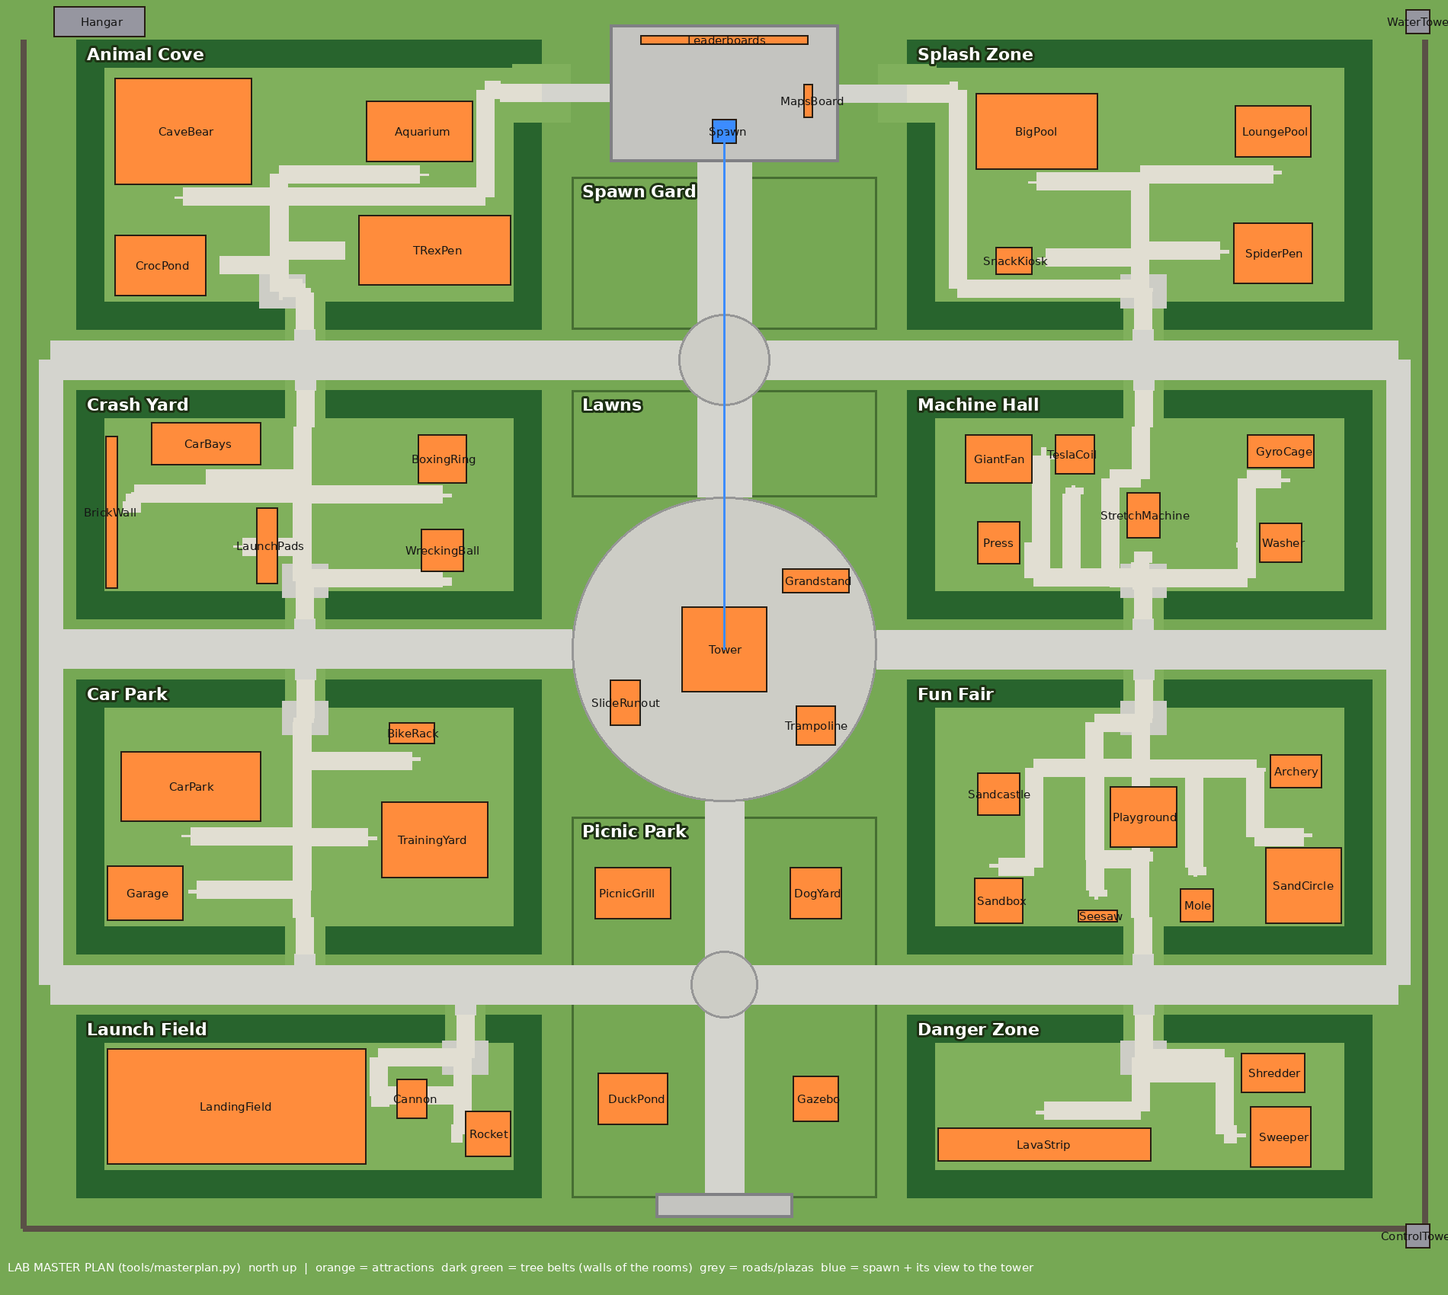
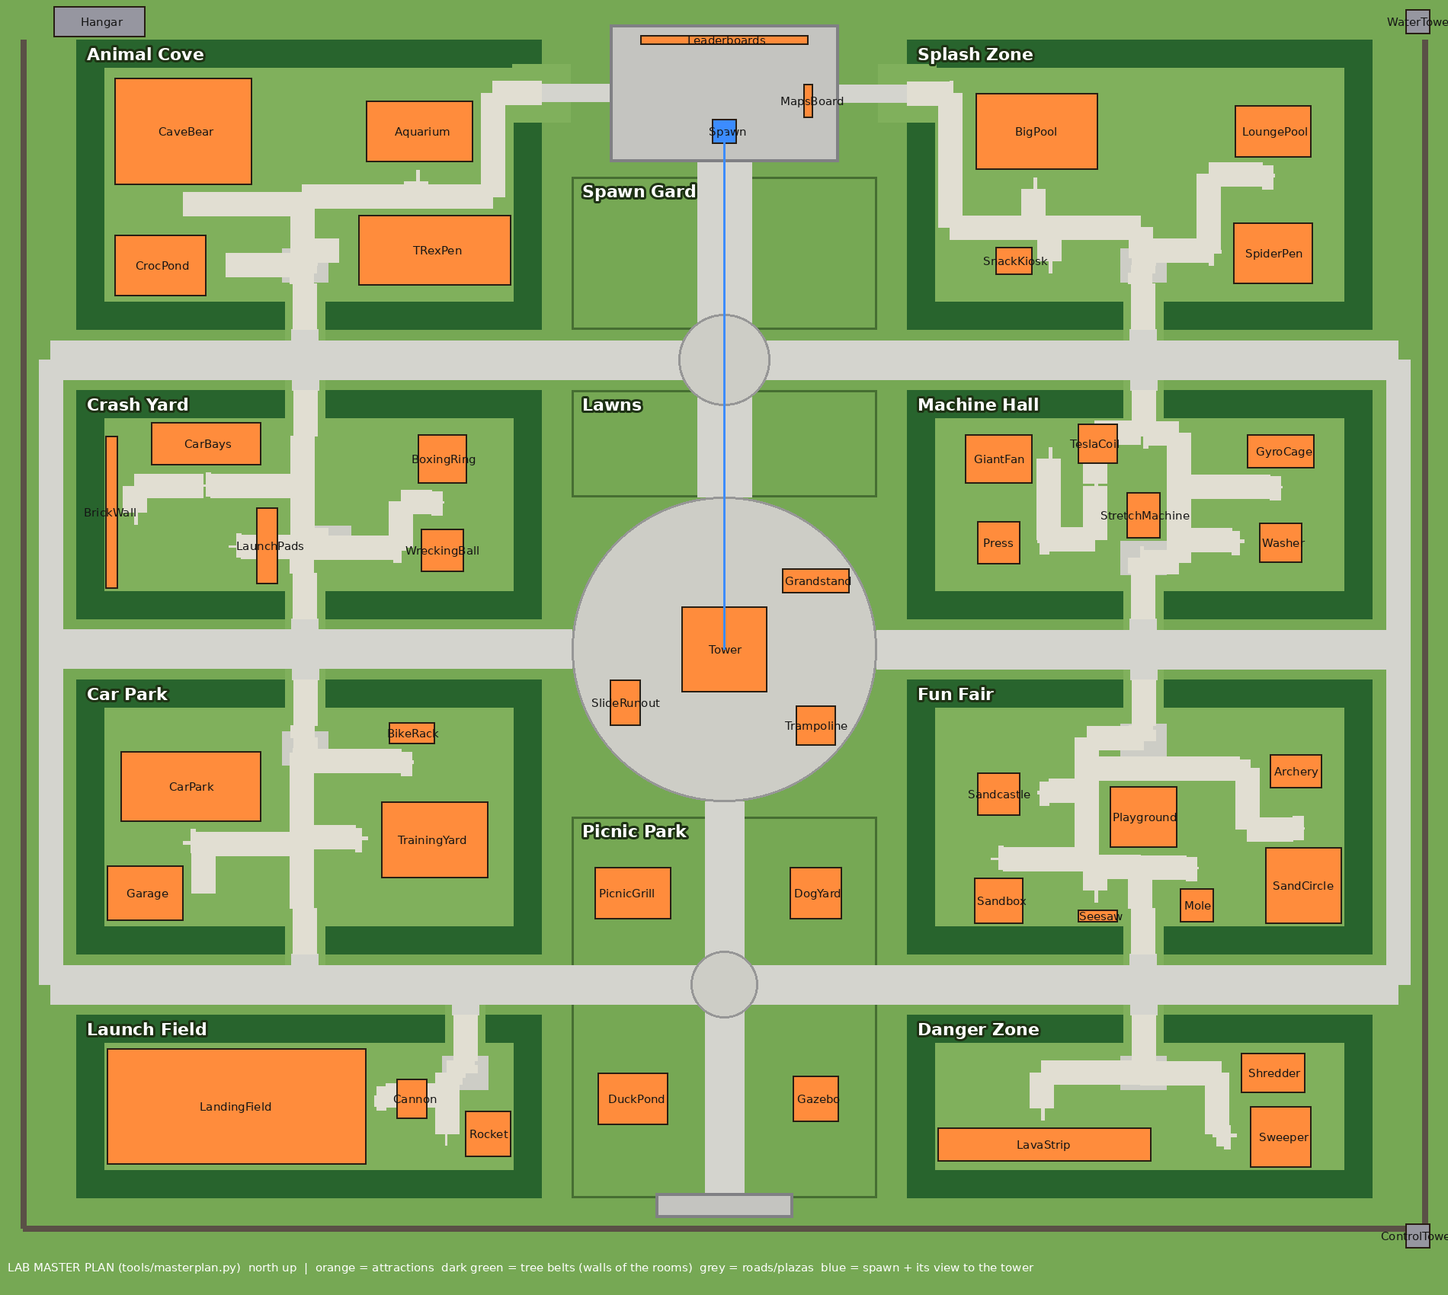
Paths 9/10: planner makes one path tree per room (shared trunks, T-junctions), wider paths, route margin; build rules (one part per leg, one pad per node, landings on built fronts and gates, no overlaps, world-aligned texture, kerbs, lint) (OVERVIEW 0.997)
Claude-Session: https://claude.ai/code/session_01QMSuPfsKra1qjqHBWxnEoR

diff --git a/tools/masterplan.py b/tools/masterplan.py
@@ -18,14 +18,14 @@ BOUNDS = (-505, -386, 445, 434)
 # ---------- ROOMS: walled by tree belts, entered only through their openings ----------
 # (id, name, x0, z0, x1, z1, entrances [(x, z)] on the room edge, courtyard (x, z))
 ROOMS = [
-    ("AnimalCove",  "Animal Cove",   -455, -360, -150, -170, [(-305, -170), (-150, -325)], (-320, -195)),
-    ("SplashZone",  "Splash Zone",     90, -360,  395, -170, [(245, -170), (90, -325)],    (245, -195)),
-    ("CrashYard",   "Crash Yard",    -455, -130, -150,   20, [(-305, -130), (-305, 20)],  (-305, -5)),
-    ("CarPark",     "Car Park",      -455,   60, -150,  240, [(-305, 60), (-305, 240)],   (-305, 85)),
-    ("MachineHall", "Machine Hall",    90, -130,  395,   20, [(245, -130), (245, 20)],    (245, -5)),
-    ("FunFair",     "Fun Fair",        90,   60,  395,  240, [(245, 60), (245, 240)],     (245, 85)),
-    ("LaunchField", "Launch Field",  -455,  280, -150,  400, [(-200, 280)],               (-200, 308)),
-    ("DangerZone",  "Danger Zone",     90,  280,  395,  400, [(245, 280)],                (245, 308)),
+    ("AnimalCove",  "Animal Cove",   -455, -360, -150, -170, [(-305, -170), (-150, -325)], (-305, -212)),
+    ("SplashZone",  "Splash Zone",     90, -360,  395, -170, [(245, -170), (90, -325)],    (245, -212)),
+    ("CrashYard",   "Crash Yard",    -455, -130, -150,   20, [(-305, -130), (-305, 20)],  (-290, -30)),
+    ("CarPark",     "Car Park",      -455,   60, -150,  240, [(-305, 60), (-305, 240)],   (-305, 105)),
+    ("MachineHall", "Machine Hall",    90, -130,  395,   20, [(245, -130), (245, 20)],    (245, -20)),
+    ("FunFair",     "Fun Fair",        90,   60,  395,  240, [(245, 60), (245, 240)],     (245, 100)),
+    ("LaunchField", "Launch Field",  -455,  280, -150,  400, [(-200, 280)],               (-200, 318)),
+    ("DangerZone",  "Danger Zone",     90,  280,  395,  400, [(245, 280)],                (245, 318)),
     ("PicnicPark",  "Picnic Park",   -130,  150,   70,  400, [],                          None),
     ("GardensN",    "Spawn Gardens", -130, -270,   70, -170, [],                          None),
     ("LawnsMid",    "Lawns",         -130, -130,   70,  -60, [],                          None),
@@ -55,18 +55,18 @@ ROADS = [
     ("PlazaWest",   12, [(-105, -325), (-150, -325)]),         # plaza side exits into Animal Cove / Splash Zone
     ("PlazaEast",   12, [(45, -325), (90, -325)]),
     # spurs into every room entrance (from the nearest road to the room edge)
-    ("SpurCoveS",    14, [(-305, -150), (-305, -170)]),
-    ("SpurSplashS",  14, [(245, -150), (245, -170)]),
-    ("SpurCrashN",   14, [(-305, -150), (-305, -130)]),
-    ("SpurCrashS",   14, [(-305, 40), (-305, 20)]),
-    ("SpurParkN",    14, [(-305, 40), (-305, 60)]),
-    ("SpurParkS",    14, [(-305, 260), (-305, 240)]),
-    ("SpurHallN",    14, [(245, -150), (245, -130)]),
-    ("SpurHallS",    14, [(245, 40), (245, 20)]),
-    ("SpurFairN",    14, [(245, 40), (245, 60)]),
-    ("SpurFairS",    14, [(245, 260), (245, 240)]),
-    ("SpurLaunch",   14, [(-200, 260), (-200, 280)]),
-    ("SpurDanger",   14, [(245, 260), (245, 280)]),
+    ("SpurCoveS",     18, [(-305, -150), (-305, -170)]),
+    ("SpurSplashS",   18, [(245, -150), (245, -170)]),
+    ("SpurCrashN",    18, [(-305, -150), (-305, -130)]),
+    ("SpurCrashS",    18, [(-305, 40), (-305, 20)]),
+    ("SpurParkN",     18, [(-305, 40), (-305, 60)]),
+    ("SpurParkS",     18, [(-305, 260), (-305, 240)]),
+    ("SpurHallN",     18, [(245, -150), (245, -130)]),
+    ("SpurHallS",     18, [(245, 40), (245, 20)]),
+    ("SpurFairN",     18, [(245, 40), (245, 60)]),
+    ("SpurFairS",     18, [(245, 260), (245, 240)]),
+    ("SpurLaunch",    18, [(-200, 260), (-200, 280)]),
+    ("SpurDanger",    18, [(245, 260), (245, 280)]),
 ]
 
 # ---------- ITEMS: every attraction, with its footprint (keep this floor free for it) ----------
@@ -91,7 +91,7 @@ ITEMS = [
     ("BrickWall",      "CrashYard",  -432,  -50, 8, 100, "E", "the long red brick crash wall (barrels at its ends, the old sedan beside it)"),
     ("LaunchPads",     "CrashYard",  -330,  -28, 14, 50, "W", "3 launch pads aimed at the brick wall"),
     ("BoxingRing",     "CrashYard",  -215,  -85, 32, 32, "S", "the boxing ring on its pad"),
-    ("WreckingBall",   "CrashYard",  -215,  -25, 28, 28, "S", "the wrecking ball gantry"),
+    ("WreckingBall",   "CrashYard",  -215,  -25, 28, 28, "W", "the wrecking ball gantry"),
     # Car Park
     ("CarPark",        "CarPark",    -380,  130, 92, 46, "S", "the car park with 6+ parked cars in bays"),
     ("Garage",         "CarPark",    -410,  200, 50, 36, "E", "the garage, doors facing the room; a rail spur runs from the west railway into its back"),
@@ -99,7 +99,7 @@ ITEMS = [
     ("BikeRack",       "CarPark",    -235,   95, 30, 14, "S", "bike rack (the cyclist's bicycle) + later the wheelchairs"),
     # Machine Hall (under a big open-sided steel shed roof that blocks the view from outside)
     ("GiantFan",       "MachineHall", 150,  -85, 44, 32, "E", "the giant fan"),
-    ("TeslaCoil",      "MachineHall", 200,  -88, 26, 26, "S", "the Tesla coil on its white pad"),
+    ("TeslaCoil",      "MachineHall", 215,  -95, 26, 26, "S", "the Tesla coil on its white pad"),
     ("GyroCage",       "MachineHall", 335,  -90, 44, 22, "S", "the gyro cage with its red button in front"),
     ("Press",          "MachineHall", 150,  -30, 28, 28, "E", "the press (compressor)"),
     ("StretchMachine", "MachineHall", 245,  -48, 22, 30, "S", "the stretch machine"),
@@ -221,11 +221,11 @@ def lint():
     return problems
 
 # ---------- inner paths: every attraction is reached by a path from its room's courtyard ----------
-INNER_W = 12
+INNER_W = 16
 
 def front_point(x, z, w, d, face):
     f = face[0]
-    o = INNER_W / 2 + 3  # (the path's last leg stops here; the builder extends its end to meet the thing's pad)
+    o = INNER_W / 2 + 3 + ROUTE_MARGIN  # (the branch ends at a landing pad here; the builder fits the landing to the thing's built front edge)
     if f == "N":
         return (x, z - d / 2 - o)
     if f == "S":
@@ -244,11 +244,16 @@ import heapq
 
 CELL = 5
 
-def grid_path(a, b, avoid, bounds):
-    """A shortest few-turn path a -> b on a CELL grid that keeps INNER_W/2 + 2 clear of every rect in avoid
-    and stays inside bounds (x0, z0, x1, z1). Returns the corner points, or None."""
+ROUTE_MARGIN = 2  # extra studs round every attraction for routing (the built model may be a bit bigger than its plan box)
+
+def grid_path(a, b, avoid, bounds, network=None):
+    """A few-turn path from a to b (or, when network is given, to the nearest cell of that network: a T-junction)
+    on a CELL grid. It keeps INNER_W/2 + 2 + ROUTE_MARGIN clear of every rect in avoid and stays inside bounds.
+    Cells already in the network are cheap, so paths share trunks instead of running side by side.
+    Returns (corner points, cells) or (None, None)."""
     x0, z0, x1, z1 = bounds
     half = INNER_W / 2 + 2
+    keep = half + ROUTE_MARGIN
     def snap(p):
         return (round((p[0] - x0) / CELL), round((p[1] - z0) / CELL))
     nx, nz = int((x1 - x0) / CELL) + 1, int((z1 - z0) / CELL) + 1
@@ -257,10 +262,12 @@ def grid_path(a, b, avoid, bounds):
         if not (x0 + half <= x <= x1 - half and z0 + half <= z <= z1 - half):
             return False
         for r in avoid:
-            if r[0] - half < x < r[2] + half and r[1] - half < z < r[3] + half:
+            if r[0] - keep < x < r[2] + keep and r[1] - keep < z < r[3] + keep:
                 return False
         return True
-    sa, sb = snap(a), snap(b)
+    net = network or set()
+    sa = snap(a)
+    sb = snap(b) if b is not None else None
     start = (sa[0], sa[1], -1)
     dist = {start: 0}
     pq = [(0, start)]
@@ -269,7 +276,7 @@ def grid_path(a, b, avoid, bounds):
     goal = None
     while pq:
         d, (i, j, k) = heapq.heappop(pq)
-        if (i, j) == sb:
+        if (i, j) == sb or ((i, j) in net and (i, j) != sa):
             goal = (i, j, k)
             break
         if d > dist.get((i, j, k), 1e18):
@@ -278,28 +285,30 @@ def grid_path(a, b, avoid, bounds):
             ni, nj = i + di, j + dj
             if not (0 <= ni < nx and 0 <= nj < nz):
                 continue
-            endpoint = (ni, nj) in (sa, sb)
+            endpoint = (ni, nj) == sa or (ni, nj) == sb or (ni, nj) in net
             if not endpoint and not free(ni, nj):
                 continue
-            nd = d + 1 + (6 if (k != -1 and kk != k) else 0)
+            step = 0.3 if (ni, nj) in net else 1
+            nd = d + step + (6 if (k != -1 and kk != k) else 0)
             st = (ni, nj, kk)
             if nd < dist.get(st, 1e18):
                 dist[st] = nd
                 prev[st] = (i, j, k)
                 heapq.heappush(pq, (nd, st))
     if not goal:
-        return None
+        return None, None
     cells = []
     st = goal
-    while st in prev or st == start:
+    while True:
         cells.append((st[0], st[1]))
         if st == start:
             break
         st = prev[st]
     cells.reverse()
     pts = [(x0 + i * CELL, z0 + j * CELL) for i, j in cells]
-    pts[0], pts[-1] = a, b
-    # keep corners only
+    pts[0] = a
+    if b is not None and cells[-1] == sb:
+        pts[-1] = b
     out = [pts[0]]
     for k in range(1, len(pts) - 1):
         p0, p1, p2 = out[-1], pts[k], pts[k + 1]
@@ -307,19 +316,26 @@ def grid_path(a, b, avoid, bounds):
             continue
         out.append(p1)
     out.append(pts[-1])
-    # make the first and last legs straight (a and b may be off-grid): add a corner if needed
     fixed = [out[0]]
     for q in out[1:]:
         pr = fixed[-1]
         if pr[0] != q[0] and pr[1] != q[1]:
             fixed.append((q[0], pr[1]))
         fixed.append(q)
-    return fixed
+    # drop zero-length legs
+    clean = [fixed[0]]
+    for q in fixed[1:]:
+        if q != clean[-1]:
+            clean.append(q)
+    return clean, set(cells)
 
 INNER = []  # (room, target, points)
 INNER_PROBLEMS = []
 
 def build_inner():
+    """Per room ONE connected path network (a tree): the entrances join the courtyard, then every attraction's
+    branch joins the nearest point of the network already built (a T-junction), so trunks are shared and nothing
+    runs side by side. Each attraction's branch ends at its front landing."""
     INNER.clear(); INNER_PROBLEMS.clear()
     for rid, name, x0, z0, x1, z1, ents, court in ROOMS:
         if rid in OPEN_ROOMS or not court:
@@ -327,31 +343,38 @@ def build_inner():
         items = [it for it in ITEMS if it[1] == rid]
         rects = {it[0]: rect_of(it[2], it[3], it[4], it[5]) for it in items}
         inner = (x0 + BELT, z0 + BELT, x1 - BELT, z1 - BELT)
+        network = set()
+        # the courtyard is the root of the tree
+        cx0, cz0 = inner[0], inner[1]
+        network.add((round((court[0] - cx0) / CELL), round((court[1] - cz0) / CELL)))
         for e in ents:
-            # straight in through the belt's opening, then on to the courtyard
             ex, ez = e
             if ez == z0:
-                ei = (ex, z0 + BELT + 6)
+                ei = (ex, z0 + BELT + 12)
             elif ez == z1:
-                ei = (ex, z1 - BELT - 6)
+                ei = (ex, z1 - BELT - 12)
             elif ex == x0:
-                ei = (x0 + BELT + 6, ez)
+                ei = (x0 + BELT + 12, ez)
             else:
-                ei = (x1 - BELT - 6, ez)
-            pts = grid_path(ei, court, list(rects.values()), inner)
+                ei = (x1 - BELT - 12, ez)
+            pts, cells = grid_path(ei, court, list(rects.values()), inner, network)
             if pts:
                 INNER.append((rid, "entrance", [e] + pts))
+                network |= cells
             else:
                 INNER_PROBLEMS.append(f"{rid}: no clear path from entrance {e} to the courtyard")
+        # nearest attractions first, so the far ones branch off the near ones' paths
+        items.sort(key=lambda it: math.hypot(it[2] - court[0], it[3] - court[1]))
         for it in items:
             iid, _, x, z, w, d, face = it[:7]
             fp = front_point(x, z, w, d, face)
             others = [r for k, r in rects.items() if k != iid]
-            pts = grid_path(court, fp, others, inner)
+            pts, cells = grid_path(fp, None, others, inner, network)
             if pts:
-                INNER.append((rid, iid, pts))
+                INNER.append((rid, iid, list(reversed(pts))))  # from the network out to the attraction
+                network |= cells
             else:
-                INNER_PROBLEMS.append(f"{rid}: no clear path from the courtyard to {iid}'s front ({face})")
+                INNER_PROBLEMS.append(f"{rid}: no clear path from the network to {iid}'s front ({face})")
 
 # ---------- outputs ----------
 def lua_str(s):

diff --git a/docs/OVERVIEW.md b/docs/OVERVIEW.md
@@ -43,6 +43,7 @@ Keep it short. When you finish or start something, update its line here (and the
 | 0.9945 | **F48: the brick wall reacts to CARS** (server-side detection by position and speed, a car-sized hole by force, the car bounces or dents; the tank ploughs through) **and resets 10-15 s after it has fallen** (concrete walls too) | `FIXES_26NOV.md` F48 | new | all |
 | 0.995 | **F45: remove the yellow "random dummies"** (the yellow watcher stand-ins and any other yellow or gold dummies): real grey watchers only, walking to their spots as you approach | `FIXES_26NOV.md` F45 | new | all |
 | 0.996 | **F49 MODEL AUDIT: every "AI slop" box model replaced** (the snack kiosk, the portable toilets, the cave, the buildings, the playground, the car-park cars, the props…): list them all, KEEP / REPLACE (Creator Store, one style) / REBUILD (detailed), and re-check until 0 are left | `DETAILS_10.md` 2b | new | all |
+| 0.997 | **F50 PATHS to 9/10:** rebuild every walkway from the regenerated plan: one tree per room (no side-by-side paths), 16 wide; one part per leg plus ONE pad per corner or junction (no overlaps, no z-fight squares, no stubs); landings that touch the attraction's BUILT front or a fence gate; never into an attraction (write the real sizes back into the plan and re-run); world-aligned slab texture; continuous kerbs; lint 0 | `MAP_MASTERPLAN.md` "PATHS to 9/10+", `tools/masterplan.py` | plan regenerated | the rebuild |
 | 1.0 | **ALL EVENTS fitted to the new map, so nobody feels scammed:** around the buyer, in view; open-area fallback; 120-200 studs; extra ragdolls run in; a guaranteed minimum flung; nothing hidden by belts or roofs; map-aware paths; the shop text matches; never lose a purchase (queue / token); score each of the 21 | `EVENTS_NEWMAP.md` | new | all |
 | 1.01 | **F32-F38** (owner, 26 Nov late): ragdolls never stuck in belts or walls (solid belt volumes, unstick); the aquarium out of the wall (+ lint for attraction overlaps); a REAL animated T-rex; exciting entrances (T-rex gate etc.); the bear alive and the black slab replaced by a real cave mouth; a cyclist passing the spawn early + free bike racks; a walk-speed setting; **F39 every sign redesigned (no post through the text; framed, themed, chunky readable letters with pictograms)**; **F40 no lamp posts on paths; F41 no white blobs round the bullet holes; F42 an X-RAY button with key I on PC; F43 X-ray bullets as real bullets pointing along the shot; F44 no prop inside any attraction (the bench in the boxing ring; the placer tests every spot)** | `FIXES_26NOV.md` F32-F44 | F39 DONE v1135 (`SIGNS_V2`, LabOwnerMap signV2): all 44 name signs are framed boards on 2 SIDE posts (nothing crosses the text), room material + colour, corner bolts, outlined chunky text + the room pictogram, LightInfluence 0, both faces. Capture art/store/lab10/sign_v2.jpg + F40 DONE v1136 (`LAMP_LINT`): lamps keep 2 studs outside EVERY walkable surface (roads, paths, plazas, Tower Square, station, courtyards); lint: 141 lamps, 0 on a walkable surface + F44 DONE v1137 (`PROP_CLEAR`, LabOwnerMap freeSpot): every yard bench, sign and prop tries up to 6 spots and takes the first with nothing within 3 studs (GetPartBoundsInBox), else none. Lint: 68 benches/props, 0 benches touching anything (left: 1 crate by a courtyard signpost, 2 on a flat sand disc) + F41 DONE v1138 (`NO_WHITE_RINGS`, Client/BulletHoles): no pale stress ring; the hole picture tinted darker grey (no white rim) + F38 DONE v1139 (`WALK_SETTING`): Settings > Walk speed NORMAL / FAST 34 / VERY FAST 40 / CALM 20 (saved in the profile, the server checks the choice); Client/Sprint uses it as the base, sprint 1.5x. Checked: VERY FAST walks 33.6 with a weapon (x0.84) + F32 DONE v1140 (`UNSTICK`, Systems/Unstick): 46 invisible solid belt walls (mid-belt, 12 high, gaps at the entrances, NoGo for paths); a ragdoll with its pelvis inside anything solid for 1 s is moved to the nearest free standing spot (checked: 2 stuck ones freed) + F45 DONE v1141 (`WATCHER_STANDINS` false): the yellow stand-ins are off; the "GoldDummies" pass look no longer shows for the owner when the game belongs to a group (Owner.isOwner); real watchers now come to the 5 machines within 90 studs + F46 part 1 v1142 (`NO_DEATH_FREEZE`): checked the death path (no anchoring, limp tone 0.02-0.035, Frozen only from the ice tool; a killed standing dummy collapses 4 studs in 0.6 s); added a guard: a dead/KO body hanging still in the air 0.6 s is unanchored and pushed down | F33-F37, F42-F43, F46 (find the in-air freeze in a real shoot test), F47-F48; F41: hairline cracks; courtyard signs through freeSpot; signs: weathering decals |
 | 1 | **THE MAP**, round 3: the master plan | `MAP_MASTERPLAN.md`, `Shared/OwnerMapPlan.luau`, `tools/masterplan.py`, `NOW.md` GO NOW | P1-P4 done (ground, roads, plazas, paths, lamps, set pieces and machines on plan spots, tree belts + arches, parks, backdrop forest/hills/mountains; 7680 parts); v83: the gyro cage and the shredder WORK (`MAP_MACHINES_LIVE`, Systems/MapMachines: drop one in or press the red button "Spin!" / "Shred!"; gyro tumbles 4 s then flings; shredder hides it 1.5 s with purple confetti and spits it 100 studs out whole); gyro rings now turn on the client (no 72 server part writes 10x a second) | the DEFINITION OF DONE captures and score (yards done v73, lint 0 small things on paths v72) |

diff --git a/docs/MAP_MASTERPLAN.md b/docs/MAP_MASTERPLAN.md
@@ -126,3 +126,43 @@ Rebuild `Systems/LabOwnerMap` FROM `OwnerMapPlan`. Do not hand-place anything th
 **Check:** capture the view from the spawn, from the tower top, and from 2 room openings, on PC and on a phone. Nothing may look repeated or blobby. The layers must read clearly (forest, hills, mountains). Harsh score 9.5+.
 
 **Also seen in the same screenshot: the 4 leaderboards show as plain black panels on the phone.** Check that the scrolling top-20 lists render on phones (SurfaceGui pixels per stud, LightInfluence 0, AlwaysOnTop false, MaxDistance).
+
+## PATHS to 9/10+ (owner, 26 Nov 2026: "gulvet der går halvt ind i edderkoppens sted og stopper sådan der med 2 blocks til sidst alle steder … er smal og firkantet men alligevel ikke lige, den er 1/10 og skal minimum være 9/10")
+**What is wrong (the owner's screenshot by the spider pen):**
+- a walkway runs half into the spider's pen;
+- path ends finish with 2 overlapping blocks (a stub plus a darker overlap square: two coplanar parts z-fighting);
+- the paths are narrow, and their pieces do not line up (small steps and offsets);
+- every branch was its own separate L-path, so pieces ran side by side and overlapped.
+
+**The plan is regenerated** (`tools/masterplan.py`, `Shared/OwnerMapPlan`, `masterplan.png`):
+- each room's inner paths are now ONE connected TREE: entrance → courtyard → trunks → branches, and the branches join the existing paths at T-junctions;
+- nothing runs side by side;
+- the inner paths are 16 wide (were 12), the spurs 18 (were 14);
+- the routing keeps an extra 2 studs from every attraction;
+- the courtyards sit further in.
+
+**REBUILD all walkways from it with these rules (they are what makes it 9/10):**
+1. **One piece per straight leg:** each straight leg between two nodes (corners, junctions, ends) is ONE part, exactly from node edge to node edge. Never two parts on top of each other.
+2. **Corners and junctions:** each is ONE square pad (the path's width × width), and the legs stop exactly at its edges. No overlaps, so no z-fighting and no darker squares.
+3. **No stubs:** a leg shorter than the path's width is dropped (its pad covers it).
+4. **The end of each branch is a LANDING:** a pad 1.5× the path's width wide, 0.75× deep, that touches the attraction's BUILT front exactly.
+   - Measure the built model's real bounding box in Studio, not the plan box. Trim or extend the last leg so the landing meets it with no gap and no overlap.
+   - If the attraction has a fence (the spider pen, the T-rex pen, the croc pond, the dog yard), the landing meets a GATE opening in the fence at that spot.
+5. **Never into an attraction:**
+   - no path part may intersect any attraction's built bounding box (with 1 stud clearance);
+   - if a built model is bigger than its plan box, write its real size back into `ITEMS` in `tools/masterplan.py`, re-run the script (it re-routes and re-lints), and rebuild from the new `OwnerMapPlan`.
+6. **Straight and aligned:** every coordinate snapped to whole studs, every leg axis-aligned, all walkway tops at the same height (no steps between pieces).
+7. **One surface look:** the same slab material and texture on every path part, the texture aligned in WORLD space (the same StudsPerTile and offsets from world zero), so the slab joints line up across all pieces and pads.
+8. **Kerbs:** a continuous low kerb along both edges, broken only at junctions, landings and gates, with mitred corners (no gaps, no overlaps).
+9. **The roads and spurs** meet the room paths and plazas the same way: a junction pad, no overlap.
+10. **Lint (must be 0 each):**
+    - path parts overlapping each other (XZ overlap over 0.1 stud);
+    - path parts inside attraction bounds;
+    - branch ends not touching their attraction or a gate;
+    - legs shorter than the width;
+    - misaligned tops (height difference over 0.05);
+    - kerb gaps.
+11. **Check:**
+    - top-down capture next to `masterplan.png`;
+    - close-ups of a corner, a T-junction, a landing at the spider pen and a gate;
+    - harsh score 9+ on "clean, wide, straight, connected".
